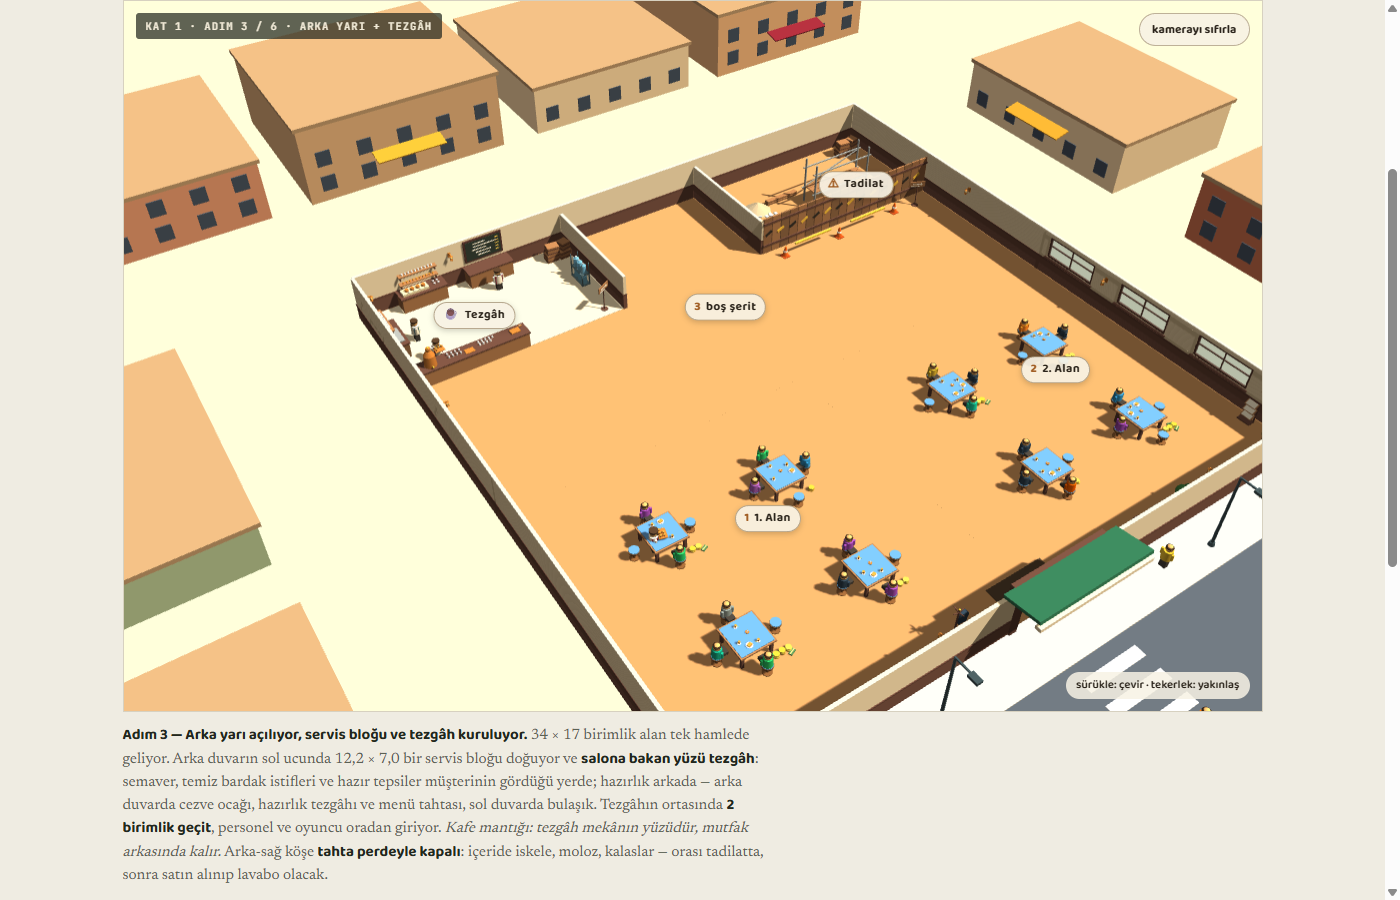
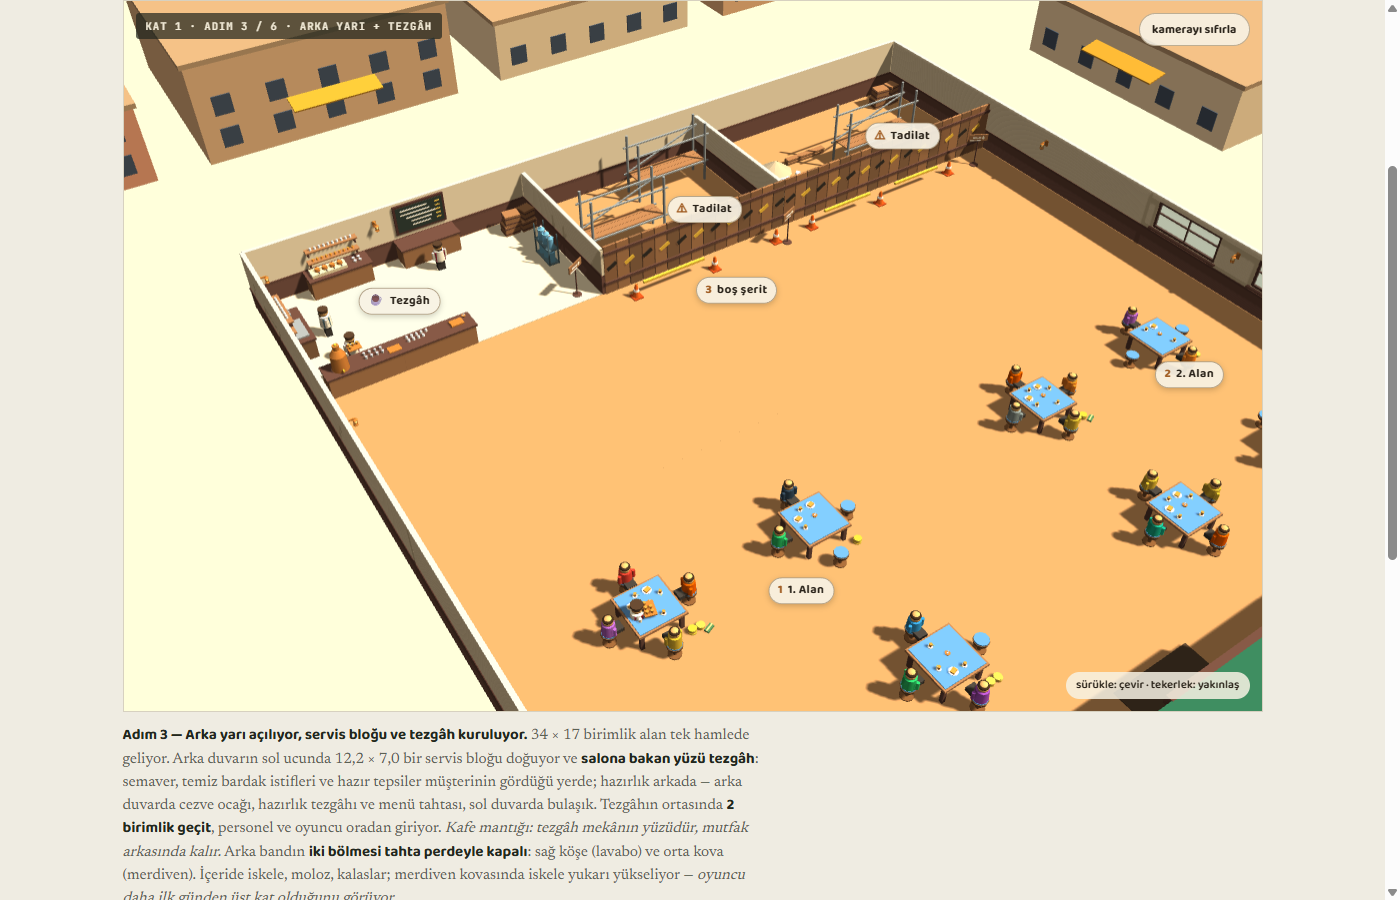
Maket v13: banket kalinlastirildi, merdiven kovasi da tadilatta
- banketIsland yeniden yapildi: derinlik 1,8 -> 2,5 (kaide + govde + iki oturak),
  sirtlik 0,62 -> 0,78 ve ust ahsap baslik 1,28'de. Masalardan belirgin sekilde
  daha kallavi bir obje oldu (kullanici istegi).
- Oturak/masa/sandalye mesafeleri buyuyen bankete gore acildi (0,74 / 1,85 / 2,95);
  ada merkezi -2,95'e kaydi ki guney masa sirasi yine z = -1,1 izgarasinda kalsin.
- Merdiven kovasi da adim 3-4'te tahta perdeyle kapali (D-033'un ikinci uygulamasi):
  yukari yukselen iki iskele + moloz + dubalar; oyuncu ilk gunden ust kat oldugunu
  goruyor. Adim 5'te perde kalkiyor.

Claude-Session: https://claude.ai/code/session_01XcKq8GTjdPZkrEsiCbXGAL

diff --git a/docs/maket/maket-v13.html b/docs/maket/maket-v13.html
@@ -1221,17 +1221,18 @@
   // ortada ortak sirtlik, iki yanda oturak + minder + yastiklar. Oturak yuzeyi y = 0,54 (tabure ile ayni).
   function banketIsland(len) {
     var g = new T.Group(), i;
-    put(g, box(len, 0.42, 1.8, C.sedir, true), 0, 0.21, 0);
-    put(g, box(len - 0.12, 0.12, 0.76, C.sedirCushion, true), 0, 0.48, 0.5);
-    put(g, box(len - 0.12, 0.12, 0.76, C.sedirCushion, true), 0, 0.48, -0.5);
-    put(g, box(len, 0.62, 0.26, C.sedir, true), 0, 0.73, 0);
-    put(g, box(len - 0.12, 0.5, 0.1, C.sedirCushion, true), 0, 0.75, 0.15);
-    put(g, box(len - 0.12, 0.5, 0.1, C.sedirCushion, true), 0, 0.75, -0.15);
-    put(g, box(len + 0.08, 0.07, 0.34, C.doorWood), 0, 1.06, 0);
-    for (i = 0; i < Math.floor(len / 3.5); i++) {
-      var x = -len / 2 + 1.6 + i * 3.5;
-      put(g, box(0.42, 0.34, 0.14, 0x9c3a45, true), x, 0.74, 0.22);
-      put(g, box(0.42, 0.34, 0.14, 0x9c3a45, true), x + 1.75, 0.74, -0.22);
+    put(g, box(len, 0.20, 2.5, C.doorWood, true), 0, 0.10, 0);                 // kaide
+    put(g, box(len - 0.16, 0.30, 2.34, C.sedir, true), 0, 0.34, 0);            // gövde
+    put(g, box(len - 0.1, 0.14, 1.02, C.sedirCushion, true), 0, 0.53, 0.72);   // güney oturak
+    put(g, box(len - 0.1, 0.14, 1.02, C.sedirCushion, true), 0, 0.53, -0.72);  // kuzey oturak
+    put(g, box(len, 0.78, 0.38, C.sedir, true), 0, 0.85, 0);                   // ortak sırtlık gövdesi
+    put(g, box(len - 0.12, 0.62, 0.12, C.sedirCushion, true), 0, 0.88, 0.21);
+    put(g, box(len - 0.12, 0.62, 0.12, C.sedirCushion, true), 0, 0.88, -0.21);
+    put(g, box(len + 0.12, 0.10, 0.5, C.doorWood), 0, 1.28, 0);                // üst ahşap başlık
+    for (i = 0; i < Math.max(1, Math.floor(len / 3.0)); i++) {
+      var x = -len / 2 + 1.4 + i * 3.0;
+      put(g, box(0.46, 0.38, 0.16, 0x9c3a45, true), x, 0.86, 0.28);
+      if (x + 1.5 < len / 2 - 0.4) put(g, box(0.46, 0.38, 0.16, 0x9c3a45, true), x + 1.5, 0.86, -0.28);
     }
     return g;
   }
@@ -1356,13 +1357,13 @@
   // banket birimi: banketin bir yuzunde ikili masa — banket koltugu + masa + karsisinda sandalye
   // dir −1: kuzey yuz (tezgaha bakan) · dir +1: guney yuz (on salona bakan)
   function banketUnit(g, x, cz, dir, coins) {
-    var sz = cz + dir * 0.55, tz = cz + dir * 1.55, kz = cz + dir * 2.6;
+    var sz = cz + dir * 0.74, tz = cz + dir * 1.85, kz = cz + dir * 2.95;
     var ryIn = dir < 0 ? Math.PI : 0, ryOut = dir < 0 ? 0 : Math.PI;
     put(g, cafeTable2(), x, 0, tz);
     put(g, chairBack(), x, 0, kz, ryOut);
     var a = Math.random() < 0.75, b = Math.random() < 0.55;
     if (a) {
-      put(g, person({ seated: true, shirt: pick(CUST) }), x, 0.05, sz, ryIn);
+      put(g, person({ seated: true, shirt: pick(CUST) }), x, 0.1, sz, ryIn);
       put(g, teaGlass(), x - 0.24, 0.83, tz + dir * 0.28);
     }
     if (b) {
@@ -1656,6 +1657,19 @@
 
     /* >>> TADİLAT — lavabo satın alınana kadar arka-sağ köşe tahta perdeyle kapalı.
        Kural: kilitli ALAN hiç çizilmez; açık alanın içindeki kilitli OBJE tadilatta durur. <<< */
+    if (s < 5) {
+      g = ST(3);
+      // merdiven kovası: yukarı yükselen iskele + levha — "burada bir üst kat var" sinyali
+      g.add(tadilatPerde(-4.6, 4.6, -9.8));
+      put(g, iskele(4.0), -2.0, 0, -12.6);
+      put(g, iskele(4.0), 2.0, 0, -15.4);
+      put(g, moloz(), 0.4, 0, -12.0);
+      put(g, duba(), -3.6, 0, -8.9);
+      put(g, duba(), 0.2, 0, -8.7);
+      put(g, duba(), 3.6, 0, -8.9);
+      put(g, box(3.0, 0.1, 0.12, 0xe0b13a), -1.8, 0.72, -8.8);
+      put(g, signPost(), 4.0, 0, -8.6, 0.4);
+    }
     if (s === 3) {
       g = ST(3);
       g.add(tadilatPerde(4.6, 16.9, -9.8));
@@ -1780,18 +1794,18 @@
       /* Hizalama: ada merkezleri ön kümelerin merkezinde (x = ∓8,5); masalar ön masalarla
          AYNI dikey sütunlarda (∓11,7 · ∓8,5 · ∓5,3) ve güney sırası ön satır ritminde (z = −1,1). */
       [[-8.5, [7, 12, 5, 9, 4, 11]], [8.5, [6, 10, 13, 5, 8, 3]]].forEach(function (seg) {
-        put(g, banketIsland(7.6), seg[0], 0, -2.65);
+        put(g, banketIsland(7.6), seg[0], 0, -2.95);
         var k = 0;
         [-1, 1].forEach(function (dir) {
           [-3.2, 0, 3.2].forEach(function (dx) {
-            banketUnit(g, seg[0] + dx, -2.65, dir, seg[1][k++]);
+            banketUnit(g, seg[0] + dx, -2.95, dir, seg[1][k++]);
           });
         });
       });
       put(g, plant(false), -3.4, 0, -1.2);
       put(g, plant(false), 3.4, 0, -1.2);
-      put(g, floorLamp(), -15.4, 0, -2.65);
-      put(g, floorLamp(), 15.4, 0, -2.65);
+      put(g, floorLamp(), -15.4, 0, -2.95);
+      put(g, floorLamp(), 15.4, 0, -2.95);
     }
 
     // aydınlatma: duvar aplikleri (y≈2.05) + köşelerde ayaklı lambalar
@@ -2150,8 +2164,8 @@
       { n: '3. Alan', badge: 'kat 1 · adım 3 / 6 · arka yarı + tezgâh',
         d: 60, a: -0.58, e: 0.72, t: [-4.0, 0.5, -4.0], rooms: [8, 1, 2],
         stats: [['3 / 6', 'adım'], ['34 × 34', 'kat'], ['9,0', 'tezgâh boyu'], ['8', 'masa'], ['3', 'personel']],
-        labels: [[-8.5, 8.6, '1', '1. Alan'], [8.5, 8.6, '2', '2. Alan'], [-13.0, -10.4, '☕', 'Tezgâh'], [10.8, -9.2, '⚠', 'Tadilat'], [-2.0, -4.0, '3', 'boş şerit']],
-        cap: '<b>Adım 3 — Arka yarı açılıyor, servis bloğu ve tezgâh kuruluyor.</b> 34 × 17 birimlik alan tek hamlede geliyor. Arka duvarın sol ucunda 12,2 × 7,0 bir servis bloğu doğuyor ve <b>salona bakan yüzü tezgâh</b>: semaver, temiz bardak istifleri ve hazır tepsiler müşterinin gördüğü yerde; hazırlık arkada — arka duvarda cezve ocağı, hazırlık tezgâhı ve menü tahtası, sol duvarda bulaşık. Tezgâhın ortasında <b>2 birimlik geçit</b>, personel ve oyuncu oradan giriyor. <em>Kafe mantığı: tezgâh mekânın yüzüdür, mutfak arkasında kalır.</em> Arka-sağ köşe <b>tahta perdeyle kapalı</b>: içeride iskele, moloz, kalaslar — orası tadilatta, sonra satın alınıp lavabo olacak.' },
+        labels: [[-8.5, 8.6, '1', '1. Alan'], [8.5, 8.6, '2', '2. Alan'], [-13.0, -10.4, '☕', 'Tezgâh'], [10.8, -9.2, '⚠', 'Tadilat'], [0, -9.2, '⚠', 'Tadilat'], [-2.0, -4.0, '3', 'boş şerit']],
+        cap: '<b>Adım 3 — Arka yarı açılıyor, servis bloğu ve tezgâh kuruluyor.</b> 34 × 17 birimlik alan tek hamlede geliyor. Arka duvarın sol ucunda 12,2 × 7,0 bir servis bloğu doğuyor ve <b>salona bakan yüzü tezgâh</b>: semaver, temiz bardak istifleri ve hazır tepsiler müşterinin gördüğü yerde; hazırlık arkada — arka duvarda cezve ocağı, hazırlık tezgâhı ve menü tahtası, sol duvarda bulaşık. Tezgâhın ortasında <b>2 birimlik geçit</b>, personel ve oyuncu oradan giriyor. <em>Kafe mantığı: tezgâh mekânın yüzüdür, mutfak arkasında kalır.</em> Arka bandın <b>iki bölmesi tahta perdeyle kapalı</b>: sağ köşe (lavabo) ve orta kova (merdiven). İçeride iskele, moloz, kalaslar; merdiven kovasında iskele yukarı yükseliyor — <em>oyuncu daha ilk günden üst kat olduğunu görüyor.</em>' },
       { n: 'Lavabo', badge: 'kat 1 · adım 4 / 6 · lavabo',
         d: 46, a: -0.50, e: 0.62, t: [7.0, 0.8, -8.0], rooms: [8, 6],
         stats: [['4 / 6', 'adım'], ['12,3 × 7,0', 'oda'], ['4', 'kabin'], ['3', 'lavabo'], ['arka-sağ', 'blok']],
@@ -2161,11 +2175,11 @@
         d: 58, a: -0.55, e: 0.70, t: [0, 0.8, -6.0], rooms: [8, 6, 7],
         stats: [['5 / 6', 'adım'], ['9,2 × 7,0', 'kova'], ['14', 'basamak'], ['Kat 2', 'açılır'], ['34 × 9,8', 'boş şerit']],
         labels: [[-10.8, -13.0, '☕', 'Servis Köşesi'], [0, -12.5, '↑', 'Merdiven'], [10.8, -13.0, '', 'Lavabo'], [0, -4.5, '3', 'boş şerit']],
-        cap: '<b>Adım 5 — Merdiven.</b> İki bloğun <b>tam arasındaki</b> kova açılıyor: 14 basamak, iki yanda korkuluk, üstte sahanlık — <b>Kat 2 için tek çıkış</b>. Kovanın iki yanındaki ceplerde askılık, depo kasası ve saksı. Arka bant böylece tamamlanıyor: <b>servis köşesi · merdiven · lavabo, üçü de z = −9,8 hizasında bitiyor.</b> Önlerinde 34 × 9,8 birimlik kesintisiz şerit kalıyor — <em>geniş, tek sıra masalık; sıradaki adımda onu birlikte dolduracağız.</em>' },
+        cap: '<b>Adım 5 — Merdiven.</b> <b>Kovadaki tahta perde kalkıyor.</b> İki bloğun <b>tam arasındaki</b> kova açılıyor: 14 basamak, iki yanda korkuluk, üstte sahanlık — <b>Kat 2 için tek çıkış</b>. Kovanın iki yanındaki ceplerde askılık, depo kasası ve saksı. Arka bant böylece tamamlanıyor: <b>servis köşesi · merdiven · lavabo, üçü de z = −9,8 hizasında bitiyor.</b> Önlerinde 34 × 9,8 birimlik kesintisiz şerit kalıyor — <em>geniş, tek sıra masalık; sıradaki adımda onu birlikte dolduracağız.</em>' },
       { n: 'Orta Şerit', badge: 'kat 1 · adım 6 / 6 · orta şerit · kat tamam',
         d: 62, a: -0.56, e: 0.70, t: [0, 0.7, -3.0], rooms: [8, 9, 1, 2],
         stats: [['6 / 6', 'adım'], ['12', 'ikili masa'], ['2', 'banket adası'], ['+24', 'koltuk'], ['ön masalarla', 'aynı sütun']],
-        labels: [[-13.0, -10.4, '☕', 'Tezgâh'], [-7.1, -9.4, '', 'Servis İstasyonu'], [-8.5, -2.65, '', 'Banket'], [8.5, -2.65, '', 'Banket'], [0, -12.5, '↑', 'Merdiven']],
+        labels: [[-13.0, -10.4, '☕', 'Tezgâh'], [-7.1, -9.4, '', 'Servis İstasyonu'], [-8.5, -2.95, '', 'Banket'], [8.5, -2.95, '', 'Banket'], [0, -12.5, '↑', 'Merdiven']],
         cap: '<b>Adım 6 — Orta şerit doluyor.</b> Katın eksik oturma tipi geliyor: <b>ikili masa</b>. Duvar olmadığı için kafelerin standart çözümü kullanıldı — <b>sırt sırta banket adası</b>: iki yüzlü uzun oturma bankı, ortada ortak sırtlık, iki yanında altışar ikili masa ve karşılarında sandalye. İki segment, aralarında kapı–merdiven geçidi açık. Tezgâhın sağ ucunda <b>garson servis istasyonu</b>: sürahiler, peçetelik, temiz bardak istifi, kirli bardak tepsisi. Adalar <b>ön kümelerle aynı dikey sütunlara</b> oturtuldu (x = ∓11,7 · ∓8,5 · ∓5,3) ve güney sırası ön masaların satır ritmini sürdürüyor — kat tek ızgarada okunuyor. Yan duvarlarla arada çevre koridoru bırakıldı. Kat böyle okunuyor: <b>arkada servis · ortada ikili/hızlı · önde dörtlü/grup.</b>' }
     ],
     2: [
